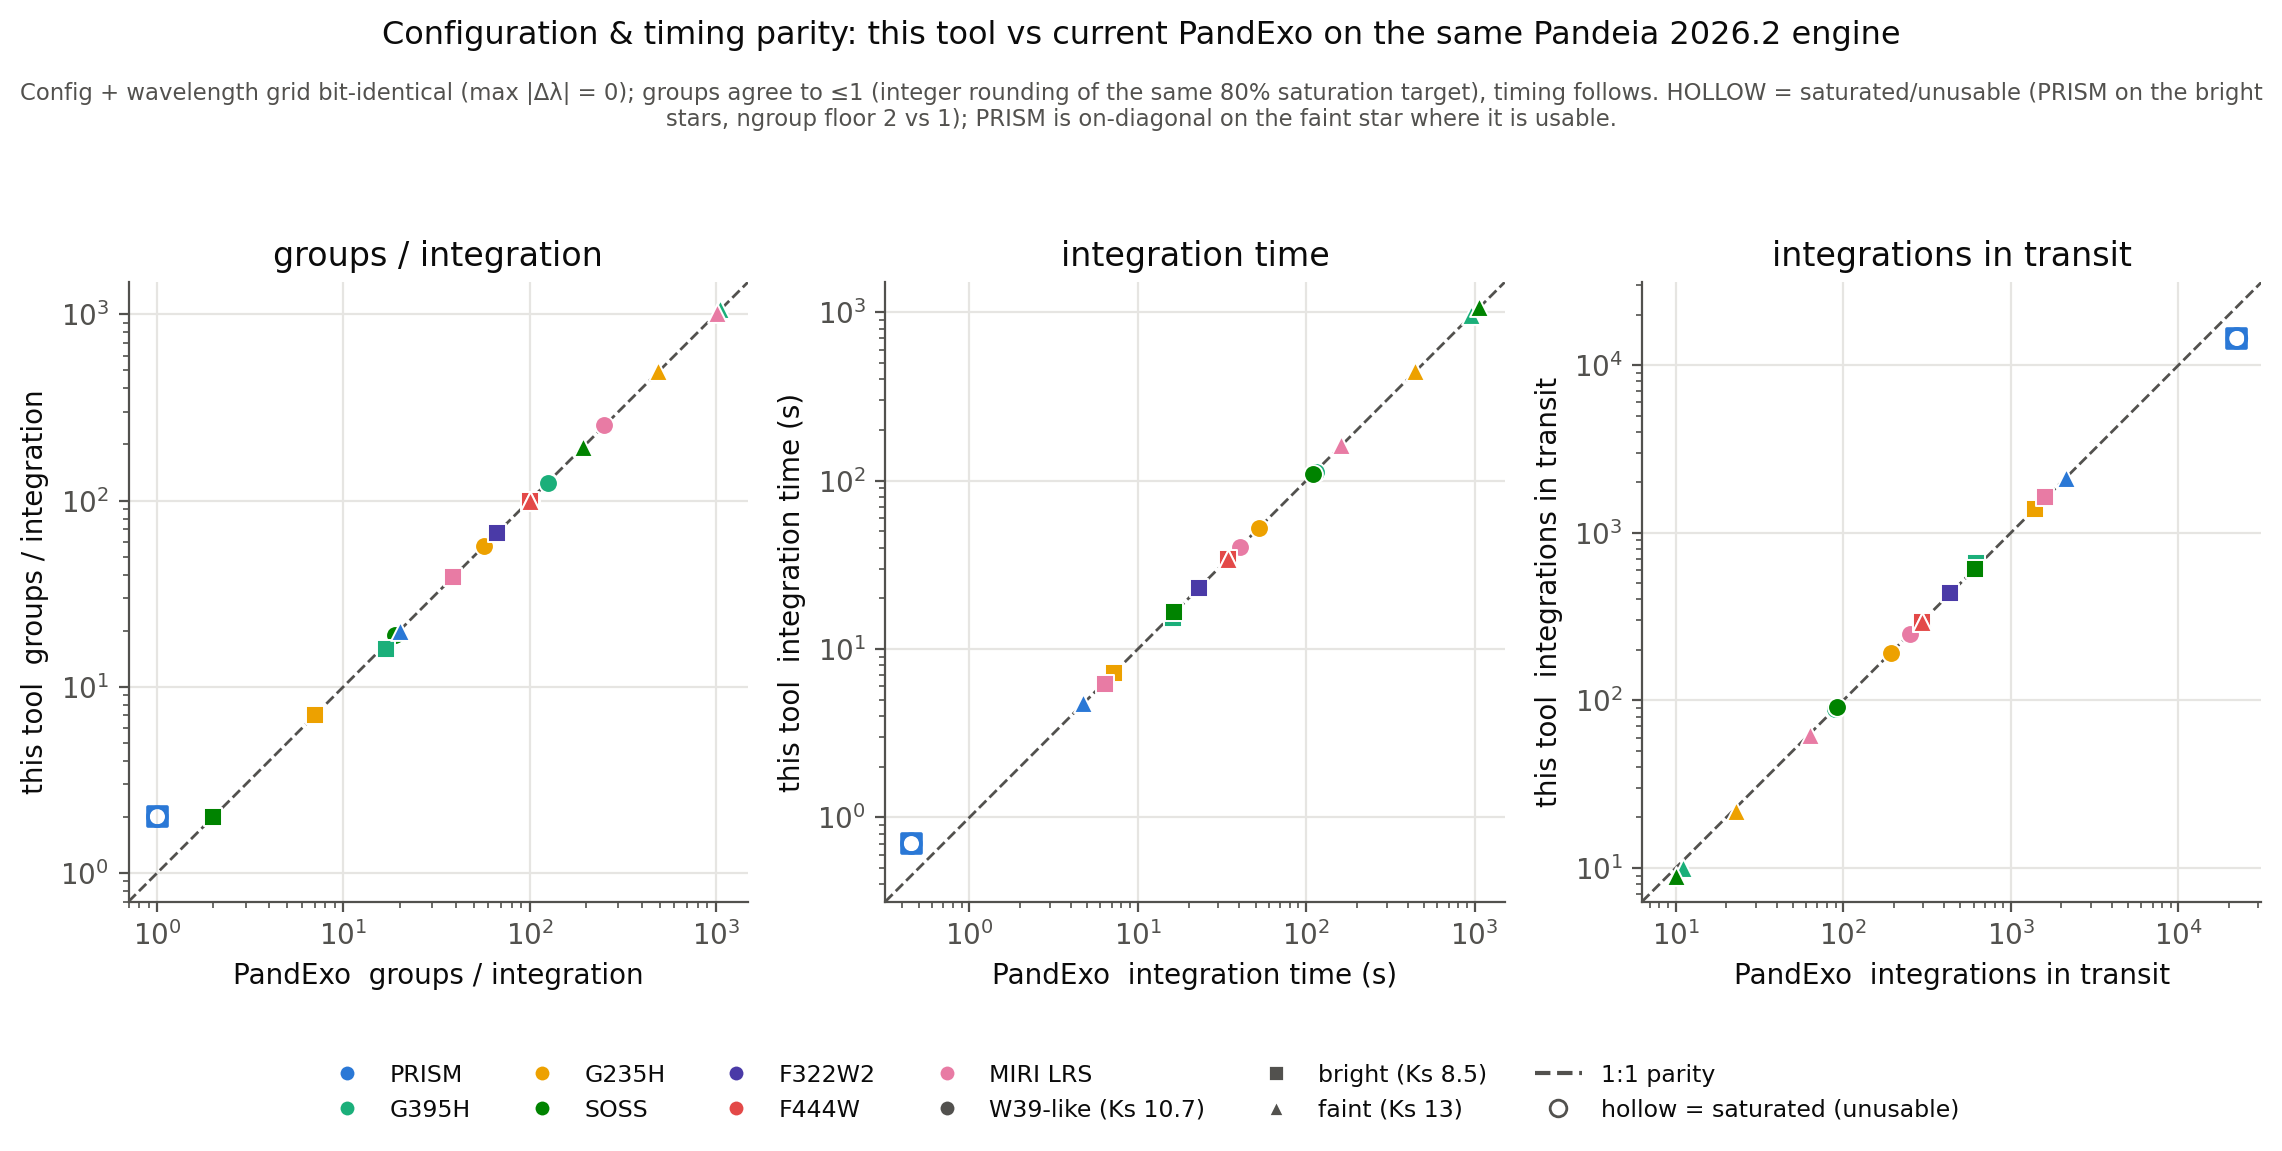
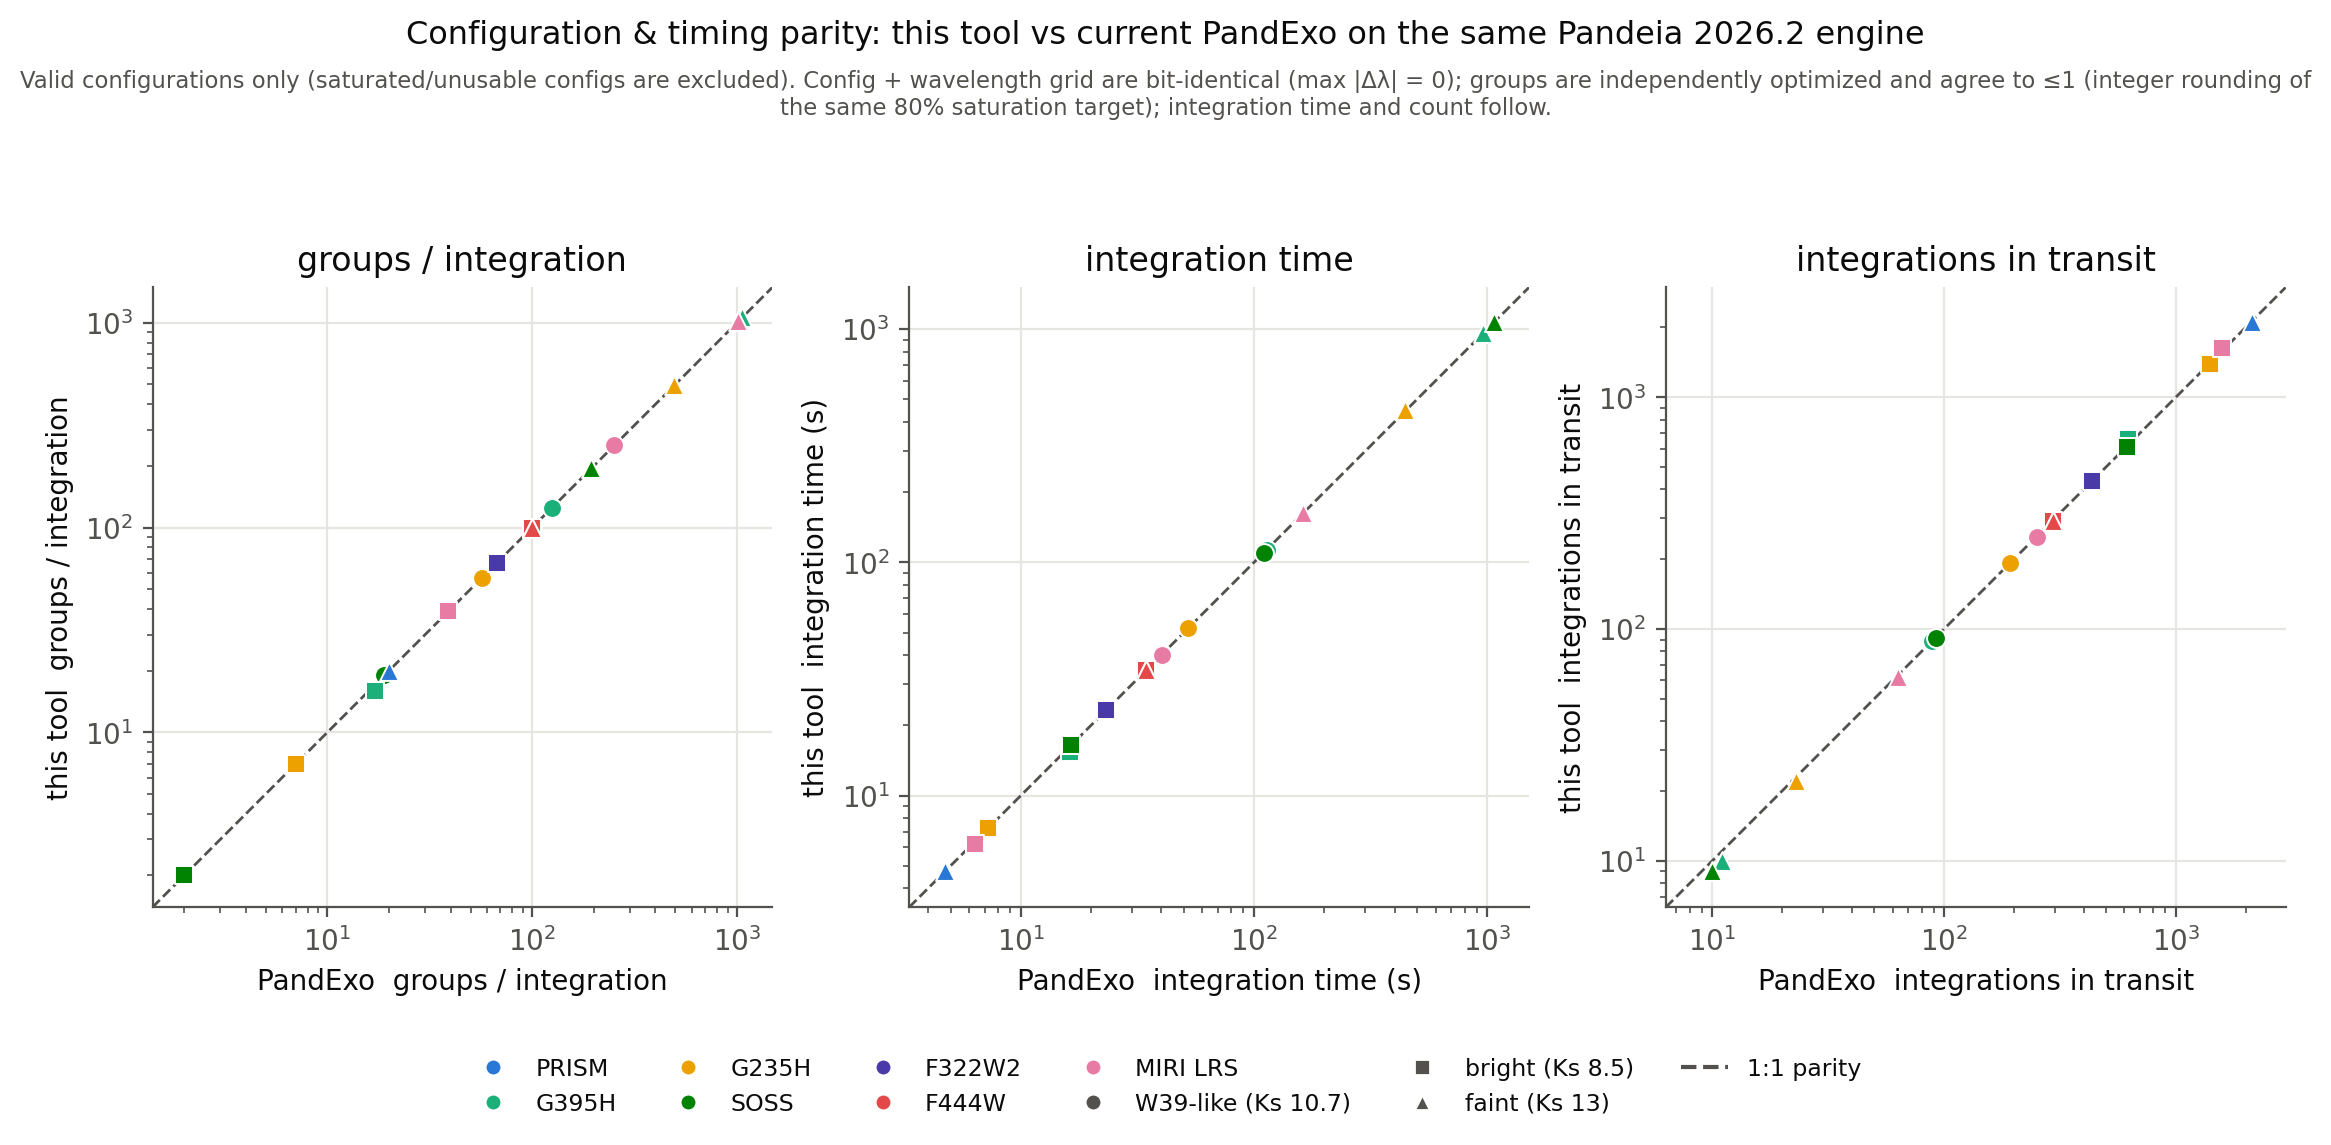
Parity figure: plot valid configs only (exclude saturated), so all points are on-diagonal
Drop saturated/unusable configs from the config-timing scatter instead of
drawing them hollow. PRISM saturates on the bright stars (unusable there), so
it is excluded on those and shown only from the faint star where it is valid
and matches (ngroup 20/20). Every plotted point is now a valid configuration
on the 1:1 line; report + subtitle updated to say saturated configs are
excluded.

diff --git a/tests/parity/scripts/make_parity_plots.py b/tests/parity/scripts/make_parity_plots.py
@@ -103,17 +103,18 @@ def fig_config_parity(summary):
             for key in MODES:
                 if key not in rows:
                     continue
+                # skip saturated (unusable) configs entirely -- only VALID
+                # configurations are a meaningful parity comparison. PRISM
+                # saturates on the bright stars and is dropped there; it is
+                # shown from the faint star, where it is usable.
+                if rows[key].get("sat_frac_ours", 0.0) > SAT_LIMIT:
+                    continue
                 x, y = rows[key][kx], rows[key][ky]
                 xs.append(x)
                 ys.append(y)
-                # a saturated mode (sat_frac_ours > limit) is not a valid
-                # config -- draw it HOLLOW so its off-diagonal ramp reads as
-                # "unusable here", not a parity miss (PRISM on the bright stars)
-                sat = rows[key].get("sat_frac_ours", 0.0) > SAT_LIMIT
                 ax.scatter(x, y, s=46, marker=STAR_MARK[star],
-                           facecolor="none" if sat else MCOL[key],
-                           edgecolor=MCOL[key] if sat else "white",
-                           linewidth=1.3 if sat else 0.7, zorder=3)
+                           color=MCOL[key], edgecolor="white", linewidth=0.7,
+                           zorder=3)
         lo = min(xs + ys) * 0.7
         hi = max(xs + ys) * 1.4
         ax.plot([lo, hi], [lo, hi], color=INK2, lw=1.0, ls="--", zorder=1)
@@ -133,23 +134,19 @@ def fig_config_parity(summary):
     star_handles = [Line2D([], [], marker=STAR_MARK[s], ls="", color=INK2,
                            markeredgecolor="white", label=STAR_LABEL[s])
                     for s in STAR_MARK]
-    line_handle = [
-        Line2D([], [], color=INK2, ls="--", label="1:1 parity"),
-        Line2D([], [], marker="o", ls="", markerfacecolor="none",
-               markeredgecolor=INK2, label="hollow = saturated (unusable)"),
-    ]
+    line_handle = [Line2D([], [], color=INK2, ls="--", label="1:1 parity")]
     fig.legend(handles=mode_handles + star_handles + line_handle,
                loc="lower center", ncol=6, frameon=False, fontsize=8.5,
-               bbox_to_anchor=(0.5, 0.005))
+               bbox_to_anchor=(0.5, 0.01))
     fig.suptitle("Configuration & timing parity: this tool vs current PandExo "
                  "on the same Pandeia 2026.2 engine", fontsize=11.5, y=0.99)
-    fig.text(0.5, 0.90, "Config + wavelength grid bit-identical (max |Δλ| = 0); "
-             "groups agree to ≤1 (integer rounding of the same 80% saturation "
-             "target), timing follows. HOLLOW = saturated/unusable (PRISM on "
-             "the bright stars, ngroup floor 2 vs 1); PRISM is on-diagonal on "
-             "the faint star where it is usable.", ha="center", fontsize=8.2,
+    fig.text(0.5, 0.91, "Valid configurations only (saturated/unusable configs "
+             "are excluded). Config + wavelength grid are bit-identical "
+             "(max |Δλ| = 0); groups are independently optimized and agree to "
+             "≤1 (integer rounding of the same 80% saturation target); "
+             "integration time and count follow.", ha="center", fontsize=8.2,
              color=INK2, wrap=True)
-    fig.tight_layout(rect=[0, 0.17, 1, 0.86])
+    fig.tight_layout(rect=[0, 0.15, 1, 0.87])
     out = FIGS / "parity_config_timing.png"
     fig.savefig(out, bbox_inches="tight")
     plt.close(fig)

diff --git a/tests/parity/scripts/make_report.py b/tests/parity/scripts/make_report.py
@@ -67,11 +67,10 @@ def main():
       "the same 80% saturation target; the only freedom left is rounding to an "
       "integer group count (e.g. G395H 124 vs 125). Integration time and "
       "integration count then follow deterministically from that one-group "
-      "choice. The one off-diagonal case is PRISM on the two BRIGHT stars, "
-      "where it is SATURATED (unusable) -- both tools flag it, this tool "
-      "floors at ngroup=2 while PandExo drops to ngroup=1; on the faint star "
-      "PRISM is unsaturated and lands on the diagonal. Saturated points are "
-      "drawn hollow in the figure.")
+      "choice. Only VALID configurations are compared: PRISM saturates on the "
+      "two bright stars (both tools flag it; this tool floors at ngroup=2 "
+      "while PandExo drops to ngroup=1) and is excluded there, and is compared "
+      "on the faint star where it is unsaturated and matches (ngroup 20/20).")
     w("- **Extracted flux agrees to a systematic ~0.3%** (binned median 0.997 "
       "for G395H), with per-pixel scatter from the two tools' independent "
       "extraction of the same 2D calculation -- photon-level for the smooth "

diff --git a/tests/parity/outputs/REPORT.md b/tests/parity/outputs/REPORT.md
@@ -16,7 +16,7 @@ These show the quantities that match 1:1 -- the parity result. The depth-uncerta
 The two are INDEPENDENT tools calling the same Pandeia engine, so only what is read straight from the shared engine is bit-for-bit identical; anything each computes on its own agrees closely but not exactly. This is a property of a cross-tool test, not a defect -- forcing bit-equality would mean one tool copying the other's numbers, which is not a validation.
 
 - **Bit-identical (max difference exactly 0):** the instrument configuration (subarray, readout, disperser, filter, aperture, background) and the extracted WAVELENGTH GRID -- every extracted pixel, every mode and star (verified: max |Δλ| = 0).
-- **Groups agree to ≤1:** each tool independently optimizes the ramp to the same 80% saturation target; the only freedom left is rounding to an integer group count (e.g. G395H 124 vs 125). Integration time and integration count then follow deterministically from that one-group choice. The one off-diagonal case is PRISM on the two BRIGHT stars, where it is SATURATED (unusable) -- both tools flag it, this tool floors at ngroup=2 while PandExo drops to ngroup=1; on the faint star PRISM is unsaturated and lands on the diagonal. Saturated points are drawn hollow in the figure.
+- **Groups agree to ≤1:** each tool independently optimizes the ramp to the same 80% saturation target; the only freedom left is rounding to an integer group count (e.g. G395H 124 vs 125). Integration time and integration count then follow deterministically from that one-group choice. Only VALID configurations are compared: PRISM saturates on the two bright stars (both tools flag it; this tool floors at ngroup=2 while PandExo drops to ngroup=1) and is excluded there, and is compared on the faint star where it is unsaturated and matches (ngroup 20/20).
 - **Extracted flux agrees to a systematic ~0.3%** (binned median 0.997 for G395H), with per-pixel scatter from the two tools' independent extraction of the same 2D calculation -- photon-level for the smooth NIRSpec/MIRI traces (MIRI LRS matches to ~0.15%), larger for the curved NIRISS SOSS order-1 trace and the saturating low-R PRISM. The tool integrates over bins, so the per-pixel jitter averages out; the systematic is what enters the noise.
 
 Columns: sigma ratio = (this tool's per-pixel transit-depth sigma) / (PandExo's), median [5th, 95th percentile] over matched pixels. 'matched' uses PandExo's integration counts in the tool formula (isolates the noise model); 'policy' uses the tool's own floor(T/t_int) counts (adds the integration-counting policy). flux ratio compares extracted stellar count rates (engine parity; expect 1.0000).